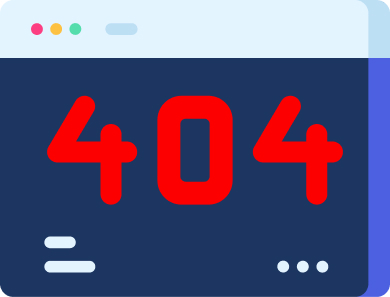
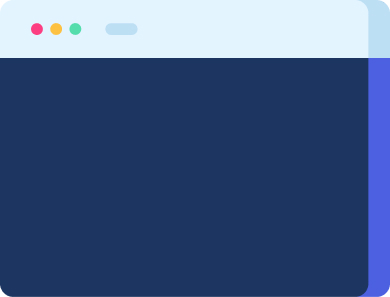
premiere version terminee du dashboard

diff --git a/resources/js/tableau.js b/resources/js/tableau.js
@@ -2,14 +2,26 @@ new Chart(document.getElementById('revenueChart'), {
     type: 'line',
     data: {
         labels: ['Jan','Fév','Mar','Avr','Mai','Jun','Jul','Aoû','Sep','Oct','Nov','Déc'],
-        datasets: [{
-            data: [2000,3000,4000,5000,6000,7000,8000,6000,5000,7000,5000,6000],
-            borderColor: '#8b5cf6',
-            borderWidth: 2,
-            tension: 0.4,
-            fill: false,
-            pointRadius: 0
-        }]
+        datasets: [
+            {
+
+                data: [200,2225,7825,500,6000,3000,800,6000,5000,7000],
+                borderColor: '#8b5cf6',
+                borderWidth: 2,
+                tension: 0.4,
+                fill: false,
+                pointRadius: 0
+            },
+            {
+                data: [null,null,null,null,null,null,null,null,null,7000,5000,6000],
+                borderColor: '#8b5cf6',
+                borderWidth: 2,
+                tension: 0.4,
+                fill: false,
+                pointRadius: 0,
+                borderDash: [6,6]
+            }
+        ]
     },
     options: { 
         responsive: true,
@@ -18,7 +30,9 @@ new Chart(document.getElementById('revenueChart'), {
         scales: {
             y: { 
                 beginAtZero: true,
+                max: 10000,        
                 ticks: {
+                    stepSize: 2000, 
                     callback: function(value) {
                         return value >= 1000 ? (value/1000) + 'k' : value;
                     }
@@ -28,6 +42,8 @@ new Chart(document.getElementById('revenueChart'), {
         }
     }
 });
+
+
 
 new Chart(document.getElementById('netRevenueChart'), {
     type: 'doughnut',

diff --git a/resources/js/rapport.js b/resources/js/rapport.js
@@ -87,15 +87,13 @@ document.addEventListener('DOMContentLoaded', () => {
                     }
                 },
                 y: {
-                    min: 100,
+                    min: 0,
                     max: 2000,
                     ticks: {
                         stepSize: 500,
-                        callback: value => value + ' K',
+                        callback: v => v,
                         color: '#6b7280',
-                        font: {
-                            size: 11
-                        }
+                        font: { size: 11 }
                     },
                     grid: {
                         color: '#e5e7eb',
@@ -104,11 +102,7 @@ document.addEventListener('DOMContentLoaded', () => {
                 }
             },
             layout: {
-                padding: {
-                    bottom: 10,
-                    left: 10,
-                    right: 10
-                }
+                padding: { bottom: 10, left: 10, right: 10 }
             }
         }
     });

diff --git a/resources/views/auth/facture.blade.php b/resources/views/auth/facture.blade.php
@@ -237,7 +237,7 @@
         <tr>
             <td><input type="checkbox"></td>
             <td class="user-cell">
-                <div class="avatar"> <img src="{{ asset('images/client1.jpg') }}" alt="Avatar Amadou Diallo"> 
+                <div class="avatar"> <img src="{{ asset('images/photo.jpg') }}" alt="Avatar Amadou Diallo"> 
                 </div>
                 <div class="user-info"> 
                     <strong>Amadou Diallo</strong>
@@ -257,7 +257,7 @@
         <tr>
             <td><input type="checkbox"></td>
             <td class="user-cell">
-                <div class="avatar"> <img src="{{ asset('images/client2.jpg') }}" alt="Avatar Fatou Traoré"> 
+                <div class="avatar"> <img src="{{ asset('images/photo.jpg') }}" alt="Avatar Fatou Traoré"> 
                 </div>
                 <div class="user-info"> 
                     <strong>Fatou Traoré</strong>
@@ -277,7 +277,7 @@
         <tr>
             <td><input type="checkbox"></td>
             <td class="user-cell">
-                <div class="avatar"> <img src="{{ asset('images/client3.jpg') }}" alt="Avatar Moussa Keita"> 
+                <div class="avatar"> <img src="{{ asset('images/photo.jpg') }}" alt="Avatar Moussa Keita"> 
                 </div>
                 <div class="user-info"> 
                     <strong>Moussa Keita</strong> 
@@ -297,7 +297,7 @@
         <tr>
             <td><input type="checkbox"></td>
             <td class="user-cell">
-                <div class="avatar"> <img src="{{ asset('images/client1.jpg') }}" alt="Avatar David Malan"> 
+                <div class="avatar"> <img src="{{ asset('images/photo.jpg') }}" alt="Avatar David Malan"> 
                 </div>
                 <div class="user-info"> 
                     <strong>David Malan</strong>  

diff --git a/resources/views/auth/client.blade.php b/resources/views/auth/client.blade.php
@@ -61,7 +61,7 @@
 <tr>
     <td><input type="checkbox"></td>
     <td class="user-cell">
-        <div class="avatar"> <img src="{{ asset('images/client1.jpg') }}" alt="Avatar Amadou Diallo"> 
+        <div class="avatar"> <img src="{{ asset('images/photo.jpg') }}" alt="Avatar Amadou Diallo"> 
         </div>
         <div class="user-info"> 
             <strong>Amadou Diallo</strong>
@@ -81,7 +81,7 @@
 <tr>
     <td><input type="checkbox"></td>
     <td class="user-cell">
-        <div class="avatar"> <img src="{{ asset('images/client2.jpg') }}" alt="Avatar Fatou Traoré"> 
+        <div class="avatar"> <img src="{{ asset('images/photo.jpg') }}" alt="Avatar Fatou Traoré"> 
         </div>
         <div class="user-info"> 
             <strong>Fatou Traoré</strong>
@@ -101,7 +101,7 @@
 <tr>
     <td><input type="checkbox"></td>
     <td class="user-cell">
-        <div class="avatar"> <img src="{{ asset('images/client3.jpg') }}" alt="Avatar Moussa Keita"> 
+        <div class="avatar"> <img src="{{ asset('images/photo.jpg') }}" alt="Avatar Moussa Keita"> 
         </div>
         <div class="user-info"> 
             <strong>Moussa Keita</strong> 
@@ -121,7 +121,7 @@
 <tr>
     <td><input type="checkbox"></td>
     <td class="user-cell">
-        <div class="avatar"> <img src="{{ asset('images/client1.jpg') }}" alt="Avatar David Malan"> 
+        <div class="avatar"> <img src="{{ asset('images/photo.jpg') }}" alt="Avatar David Malan"> 
         </div>
         <div class="user-info"> 
             <strong>David Malan</strong>  

diff --git a/resources/views/auth/transactions.blade.php b/resources/views/auth/transactions.blade.php
@@ -65,7 +65,7 @@
 <tr>
     <td><input type="checkbox"></td>
     <td class="user-cell">
-        <div class="avatar"> <img src="{{ asset('images/client1.jpg') }}" alt="Avatar Amadou Diallo"> 
+        <div class="avatar"> <img src="{{ asset('images/photo.jpg') }}" alt="Avatar Amadou Diallo"> 
         </div>
         <div class="user-info"> 
             <strong>Amadou Diallo</strong>
@@ -86,7 +86,7 @@
 <tr>
     <td><input type="checkbox"></td>
     <td class="user-cell">
-        <div class="avatar"> <img src="{{ asset('images/client2.jpg') }}" alt="Avatar Fatou Traoré"> 
+        <div class="avatar"> <img src="{{ asset('images/photo.jpg') }}" alt="Avatar Fatou Traoré"> 
         </div>
         <div class="user-info"> 
             <strong>Fatou Traoré</strong>
@@ -107,7 +107,7 @@
 <tr>
     <td><input type="checkbox"></td>
     <td class="user-cell">
-        <div class="avatar"> <img src="{{ asset('images/client3.jpg') }}" alt="Avatar Moussa Keita"> 
+        <div class="avatar"> <img src="{{ asset('images/photo.jpg') }}" alt="Avatar Moussa Keita"> 
         </div>
         <div class="user-info"> 
             <strong>Moussa Keita</strong> 
@@ -128,7 +128,7 @@
 <tr>
     <td><input type="checkbox"></td>
     <td class="user-cell">
-        <div class="avatar"> <img src="{{ asset('images/client1.jpg') }}" alt="Avatar David Malan"> 
+        <div class="avatar"> <img src="{{ asset('images/photo.jpg') }}" alt="Avatar David Malan"> 
         </div>
         <div class="user-info"> 
             <strong>David Malan</strong> 

diff --git a/app/Exceptions/Handler.php b/app/Exceptions/Handler.php
@@ -1,0 +1,63 @@
+<?php
+
+namespace App\Exceptions;
+
+use Illuminate\Foundation\Exceptions\Handler as ExceptionHandler;
+use Throwable;
+
+class Handler extends ExceptionHandler
+{
+    /**
+     * Les niveaux de log pour certaines exceptions.
+     *
+     * @var array<class-string<\Throwable>, \Psr\Log\LogLevel::*>
+     */
+    protected $levels = [
+        //
+    ];
+
+    /**
+     * Les exceptions qui ne doivent pas être reportées.
+     *
+     * @var array<int, class-string<\Throwable>>
+     */
+    protected $dontReport = [
+        //
+    ];
+
+    /**
+     * Les champs qui ne doivent jamais être flashés en cas de validation échouée.
+     *
+     * @var array<int, string>
+     */
+    protected $dontFlash = [
+        'current_password',
+        'password',
+        'password_confirmation',
+    ];
+
+    /**
+     * Enregistre les callbacks pour le reporting.
+     */
+    public function register(): void
+    {
+        $this->reportable(function (Throwable $e) {
+            //
+        });
+    }
+
+    /**
+     * Personnalise le rendu des exceptions.
+     */
+    public function render($request, Throwable $exception)
+    {
+        if ($this->isHttpException($exception)) {
+            if ($exception->getStatusCode() === 404) {
+                // Rend ta vue personnalisée 404.blade.php
+                return response()->view('errors.404', [], 404);
+            }
+        }
+
+        return parent::render($request, $exception);
+    }
+}

diff --git a/resources/views/auth/catalogue.blade.php b/resources/views/auth/catalogue.blade.php
@@ -242,7 +242,7 @@
 
     <td class="user-cell">
         <div class="avatar">
-            <img src="{{ asset('images/client1.jpg') }}">
+            <img src="{{ asset('images/photo.jpg') }}">
         </div>
         <div class="user-info">
             <strong>Herry Kane</strong>
@@ -267,7 +267,7 @@
 
     <td class="user-cell">
         <div class="avatar">
-            <img src="{{ asset('images/client2.jpg') }}">
+            <img src="{{ asset('images/photo.jpg') }}">
         </div>
         <div class="user-info">
             <strong>Herry Books</strong>
@@ -292,7 +292,7 @@
 
     <td class="user-cell">
         <div class="avatar">
-            <img src="{{ asset('images/client3.jpg') }}">
+            <img src="{{ asset('images/photo.jpg') }}">
         </div>
         <div class="user-info">
             <strong>Matt Henry</strong>
